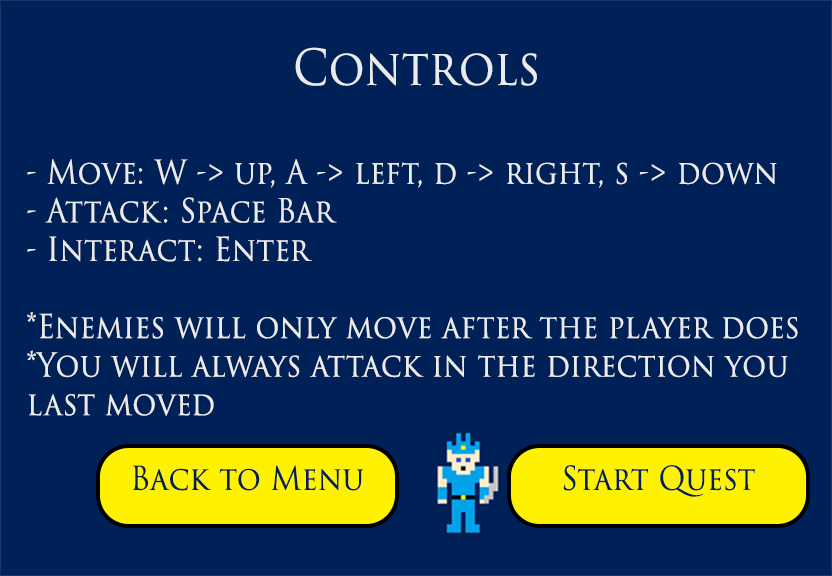
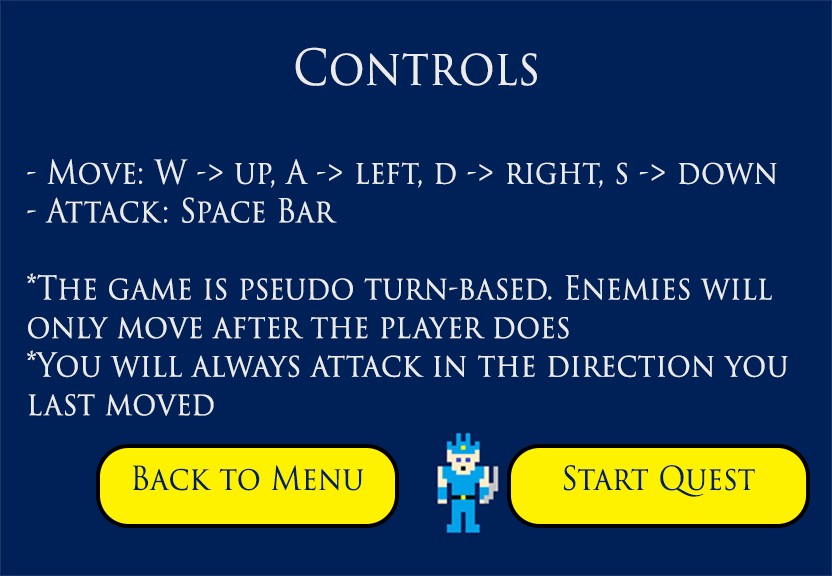
Updated menu instructions and controls to use space (instead of enter)

Changed region(s): [[0.0312, 0.4062, 0.9688, 0.5938]]

diff --git a/SDA/Game1.cs b/SDA/Game1.cs
@@ -147,7 +147,7 @@ namespace SDA
                         menu = MenuState.Menu2;
                         break;
                     }
-                    else if (state.IsKeyDown(Keys.Enter))
+                    else if (state.IsKeyDown(Keys.Space))
                     {
                         //start the game
                         System.Threading.Thread.Sleep(500);
@@ -163,7 +163,7 @@ namespace SDA
                         menu = MenuState.Menu1;
                         break;
                     }
-                    else if (state.IsKeyDown(Keys.Enter))
+                    else if (state.IsKeyDown(Keys.Space))
                     {
                         menu = MenuState.Instruct1;
                         System.Threading.Thread.Sleep(500);
@@ -176,7 +176,7 @@ namespace SDA
                         menu = MenuState.Instruct2;
                         break;
                     }
-                    else if (state.IsKeyDown(Keys.Enter))
+                    else if (state.IsKeyDown(Keys.Space))
                     {
                         //start the game
                         menu = MenuState.Menu1;
@@ -190,7 +190,7 @@ namespace SDA
                         menu = MenuState.Instruct1;
                         break;
                     }
-                    else if (state.IsKeyDown(Keys.Enter))
+                    else if (state.IsKeyDown(Keys.Space))
                     {
                         menu = MenuState.Controls1;
                         System.Threading.Thread.Sleep(500);
@@ -203,7 +203,7 @@ namespace SDA
                         menu = MenuState.Controls2;
                         break;
                     }
-                    else if (state.IsKeyDown(Keys.Enter))
+                    else if (state.IsKeyDown(Keys.Space))
                     {
                         menu = MenuState.Menu1;
                         System.Threading.Thread.Sleep(500);
@@ -216,7 +216,7 @@ namespace SDA
                         menu = MenuState.Controls1;
                         break;
                     }
-                    else if (state.IsKeyDown(Keys.Enter))
+                    else if (state.IsKeyDown(Keys.Space))
                     {
                         System.Threading.Thread.Sleep(500);
                         currentGameState = GameState.Game;
@@ -231,7 +231,7 @@ namespace SDA
                         menu = MenuState.GameOver2;
                         break;
                     }
-                    else if (state.IsKeyDown(Keys.Enter))
+                    else if (state.IsKeyDown(Keys.Space))
                     {
                         System.Threading.Thread.Sleep(500);
                         menu = MenuState.Menu1;
@@ -244,7 +244,7 @@ namespace SDA
                         menu = MenuState.GameOver1;
                         break;
                     }
-                    else if (state.IsKeyDown(Keys.Enter))
+                    else if (state.IsKeyDown(Keys.Space))
                     {
                         System.Threading.Thread.Sleep(500);
                         Exit();
@@ -285,12 +285,12 @@ namespace SDA
             else if (menu == MenuState.GameOver1)
             {
                 spriteBatch.Draw(background7, new Vector2(0.0f, 0.0f), Color.White);
-                spriteBatch.DrawString(text, "hiscore: "+hiscore, new Vector2(0.0f, 32.0f), Color.White);
+                spriteBatch.DrawString(text, "High Score: "+hiscore, new Vector2(0.0f, 32.0f), Color.White);
             }
             else if (menu == MenuState.GameOver2)
             {
                 spriteBatch.Draw(background8, new Vector2(0.0f, 0.0f), Color.White);
-                spriteBatch.DrawString(text, "hiscore: " + hiscore, new Vector2(0.0f, 32.0f), Color.White);
+                spriteBatch.DrawString(text, "High Score: " + hiscore, new Vector2(0.0f, 32.0f), Color.White);
             }
         }
 
@@ -387,7 +387,8 @@ namespace SDA
             {
                 gameMap.Draw(spriteBatch);
                 playerCharacter.Draw(spriteBatch);
-                spriteBatch.DrawString(text, playerCharacter.Health.ToString(), new Vector2(10, 10), Color.White, 0f, Vector2.Zero, 2, SpriteEffects.None, 0f);
+                spriteBatch.DrawString(text, "HP: " +playerCharacter.Health.ToString(), new Vector2(10, 10), Color.White, 0f, Vector2.Zero, 2, SpriteEffects.None, 0f);
+                //spriteBatch.DrawString(text, "LVL: " + playerCharacter.Lvl.ToString(), new Vector2(10, 10), Color.White, 0f, Vector2.Zero, 2, SpriteEffects.None, 0f);
                 foreach (Enemy enemy in gameMap.Enemies)
                 {
                     if (enemy.IsAlive == true)

diff --git a/SDA/Player.cs b/SDA/Player.cs
@@ -41,7 +41,12 @@ namespace SDA
             set { health = value; }
         }
 
-        
+        public int Lvl
+        {
+            get { return level; }
+            set { level = value; }
+        }
+
         public int Exp
         {
             get { return exp; }
